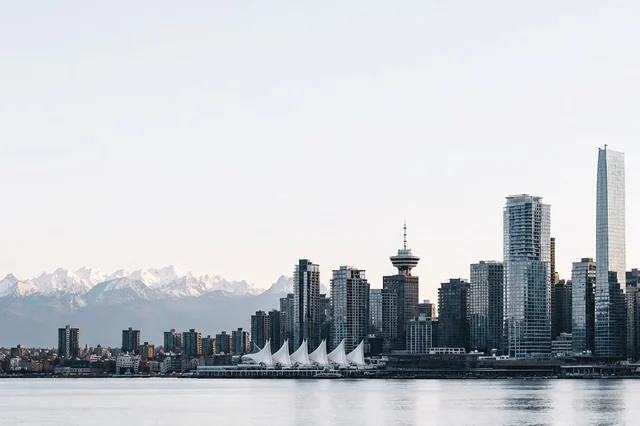
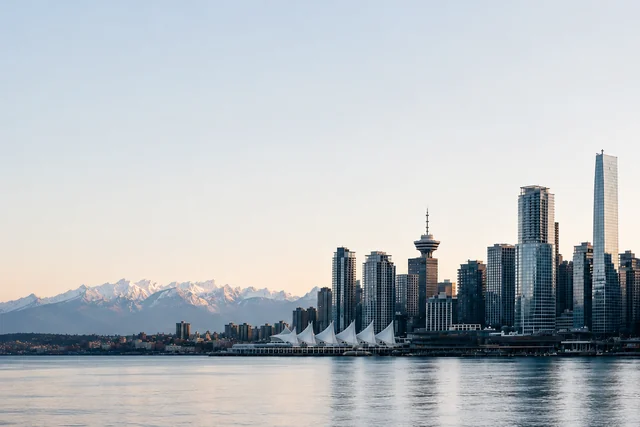
Swap in a sharper hero plate and ease the scrim to suit it
The blur was a source ceiling, not an encoder setting: the old plate came from
a 1024x1024 export, so covering a 1900px hero upscaled it ~1.85x. The new
source is 1402x1122 with no UI baked into the pixels, cropped to 3:2 — 37% more
horizontal detail, and the largest width served goes from 1024 to 1402.

srcset is now 640 / 1024 / 1402 so narrow viewports do not pay for pixels they
cannot show. On a 1536 window the browser picks the 1402 WebP at 107 KB.

Scrim eased from 0.95/0.88/0.58 to 0.92/0.82/0.38 and pulled in from 70% to
62%. The heavier gradient existed to hide softness in the old plate; it was
flattening the mountains for no legibility gain. The copy column only needs the
first ~30% held light, and the stacked trust markers all sit inside that.

Verified at 1536x1024, 1440x900 and 375x812.

diff --git a/src/components/light/HeroShowcase.tsx b/src/components/light/HeroShowcase.tsx
@@ -118,16 +118,16 @@ export const HeroSkyline = () => (
     <picture className="block h-full w-full">
       <source
         type="image/webp"
-        srcSet="/vancouver-skyline-640.webp 640w, /vancouver-skyline-1024.webp 1024w"
+        srcSet="/vancouver-skyline-640.webp 640w, /vancouver-skyline-1024.webp 1024w, /vancouver-skyline-1402.webp 1402w"
         sizes="100vw"
       />
       <img
-        src="/vancouver-skyline-1024.jpg"
-        srcSet="/vancouver-skyline-640.jpg 640w, /vancouver-skyline-1024.jpg 1024w"
+        src="/vancouver-skyline-1402.jpg"
+        srcSet="/vancouver-skyline-640.jpg 640w, /vancouver-skyline-1024.jpg 1024w, /vancouver-skyline-1402.jpg 1402w"
         sizes="100vw"
         alt=""
-        width={1024}
-        height={682}
+        width={1402}
+        height={935}
         // Hero LCP element — must not be lazy. React 18.3.1 drops the camelCase
         // prop from the DOM, so it is spread lowercase to actually reach the browser.
         {...{ fetchpriority: 'high' }}
@@ -150,13 +150,16 @@ export const HeroSkyline = () => (
  */
 export const HeroScrim = () => (
   <>
-    {/* Desktop: horizontal, because the copy is beside the skyline. */}
+    {/* Desktop: horizontal, because the copy is beside the skyline. Eased once
+        the sharper plate landed — the copy column only needs the first ~30%
+        held light, and a heavier gradient was flattening the mountains for no
+        legibility gain. */}
     <div
       aria-hidden="true"
       className="pointer-events-none absolute inset-0 hidden sm:block"
       style={{
         background:
-          'linear-gradient(100deg, rgba(228,231,235,0.95) 0%, rgba(228,231,235,0.88) 30%, rgba(228,231,235,0.58) 52%, rgba(228,231,235,0) 70%)',
+          'linear-gradient(100deg, rgba(228,231,235,0.92) 0%, rgba(228,231,235,0.82) 26%, rgba(228,231,235,0.38) 46%, rgba(228,231,235,0) 62%)',
       }}
     />
     {/* Mobile: vertical, because the copy is above the band, not beside it.
